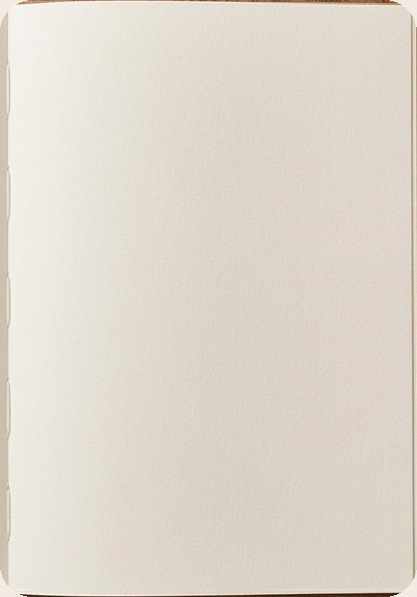
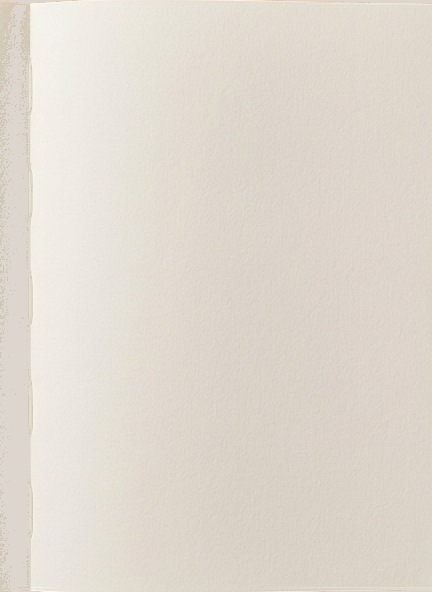
Re-extract sharp sketchbook page plates from the new overhead.
Mask left/right pages as hard rectangles flush to the spine, with no
corner radius, and regenerate blank/placeholder spreads from those crops.

diff --git a/src/lib/config.ts b/src/lib/config.ts
@@ -52,25 +52,25 @@ export const NOTEBOOK = {
 export const SKETCHBOOK = {
   /** Union of both pages — used for nav placement / focus. */
   pageRect: {
-    left: 0.1998546511627907,
-    top: 0.11197916666666667,
-    width: 0.5973837209302325,
-    height: 0.7760416666666666,
+    left: 0.20130813953488372,
+    top: 0.11458333333333333,
+    width: 0.590843023255814,
+    height: 0.76953125,
   },
   leftPage: {
-    left: 0.1998546511627907,
-    top: 0.11197916666666667,
-    width: 0.2936046511627907,
-    height: 0.7760416666666666,
+    left: 0.20130813953488372,
+    top: 0.11458333333333333,
+    width: 0.2761627906976744,
+    height: 0.76953125,
   },
   rightPage: {
-    left: 0.4949127906976744,
-    top: 0.11197916666666667,
-    width: 0.3023255813953488,
-    height: 0.7760416666666666,
+    left: 0.4789244186046512,
+    top: 0.11458333333333333,
+    width: 0.3132267441860465,
+    height: 0.76953125,
   },
-  /** Rounded paper corners — fraction of rendered page height. */
-  pageRadiusRatio: 0.048,
+  /** 0 = sharp corners (matches this overhead still). */
+  pageRadiusRatio: 0,
   spreads: [
     {
       id: 'blank',

diff --git a/src/components/SketchbookPages.tsx b/src/components/SketchbookPages.tsx
@@ -28,12 +28,16 @@ export function SketchbookPages({ active }: SketchbookPagesProps) {
   const current = spreads[index]
   const next = spreads[Math.min(index + 1, last)]
   const { leftPage, rightPage, pageRect, pageRadiusRatio } = SKETCHBOOK
-  const round = { borderRadius: `${radiusPx}px` }
+  const round = { borderRadius: pageRadiusRatio > 0 ? `${radiusPx}px` : '0px' }
 
   useLayoutEffect(() => {
     const el = measureRef.current
     if (!el) return
     const update = () => {
+      if (pageRadiusRatio <= 0) {
+        setRadiusPx(0)
+        return
+      }
       setRadiusPx(Math.max(16, el.getBoundingClientRect().height * pageRadiusRatio))
     }
     update()
